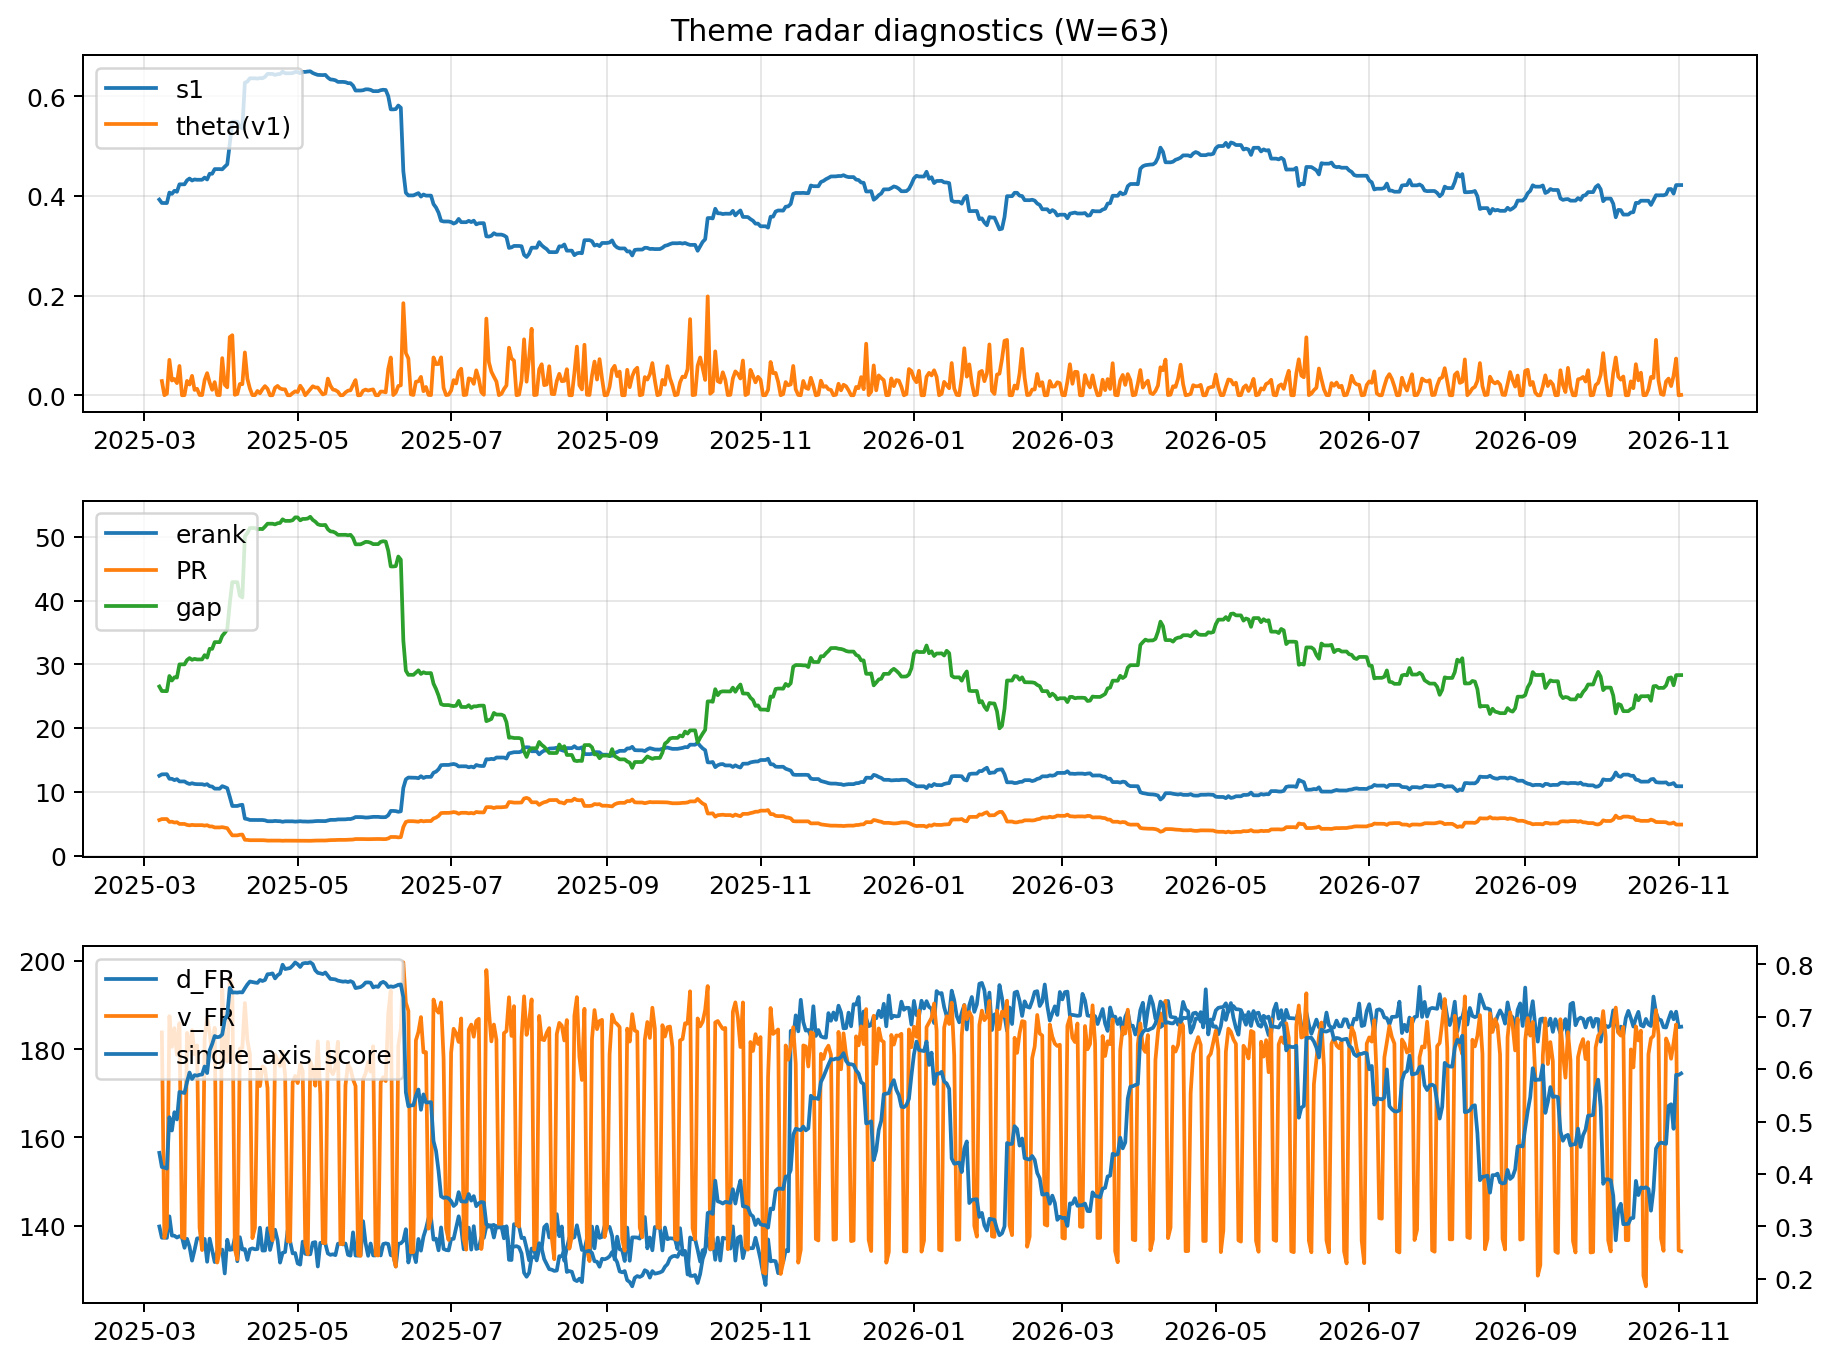
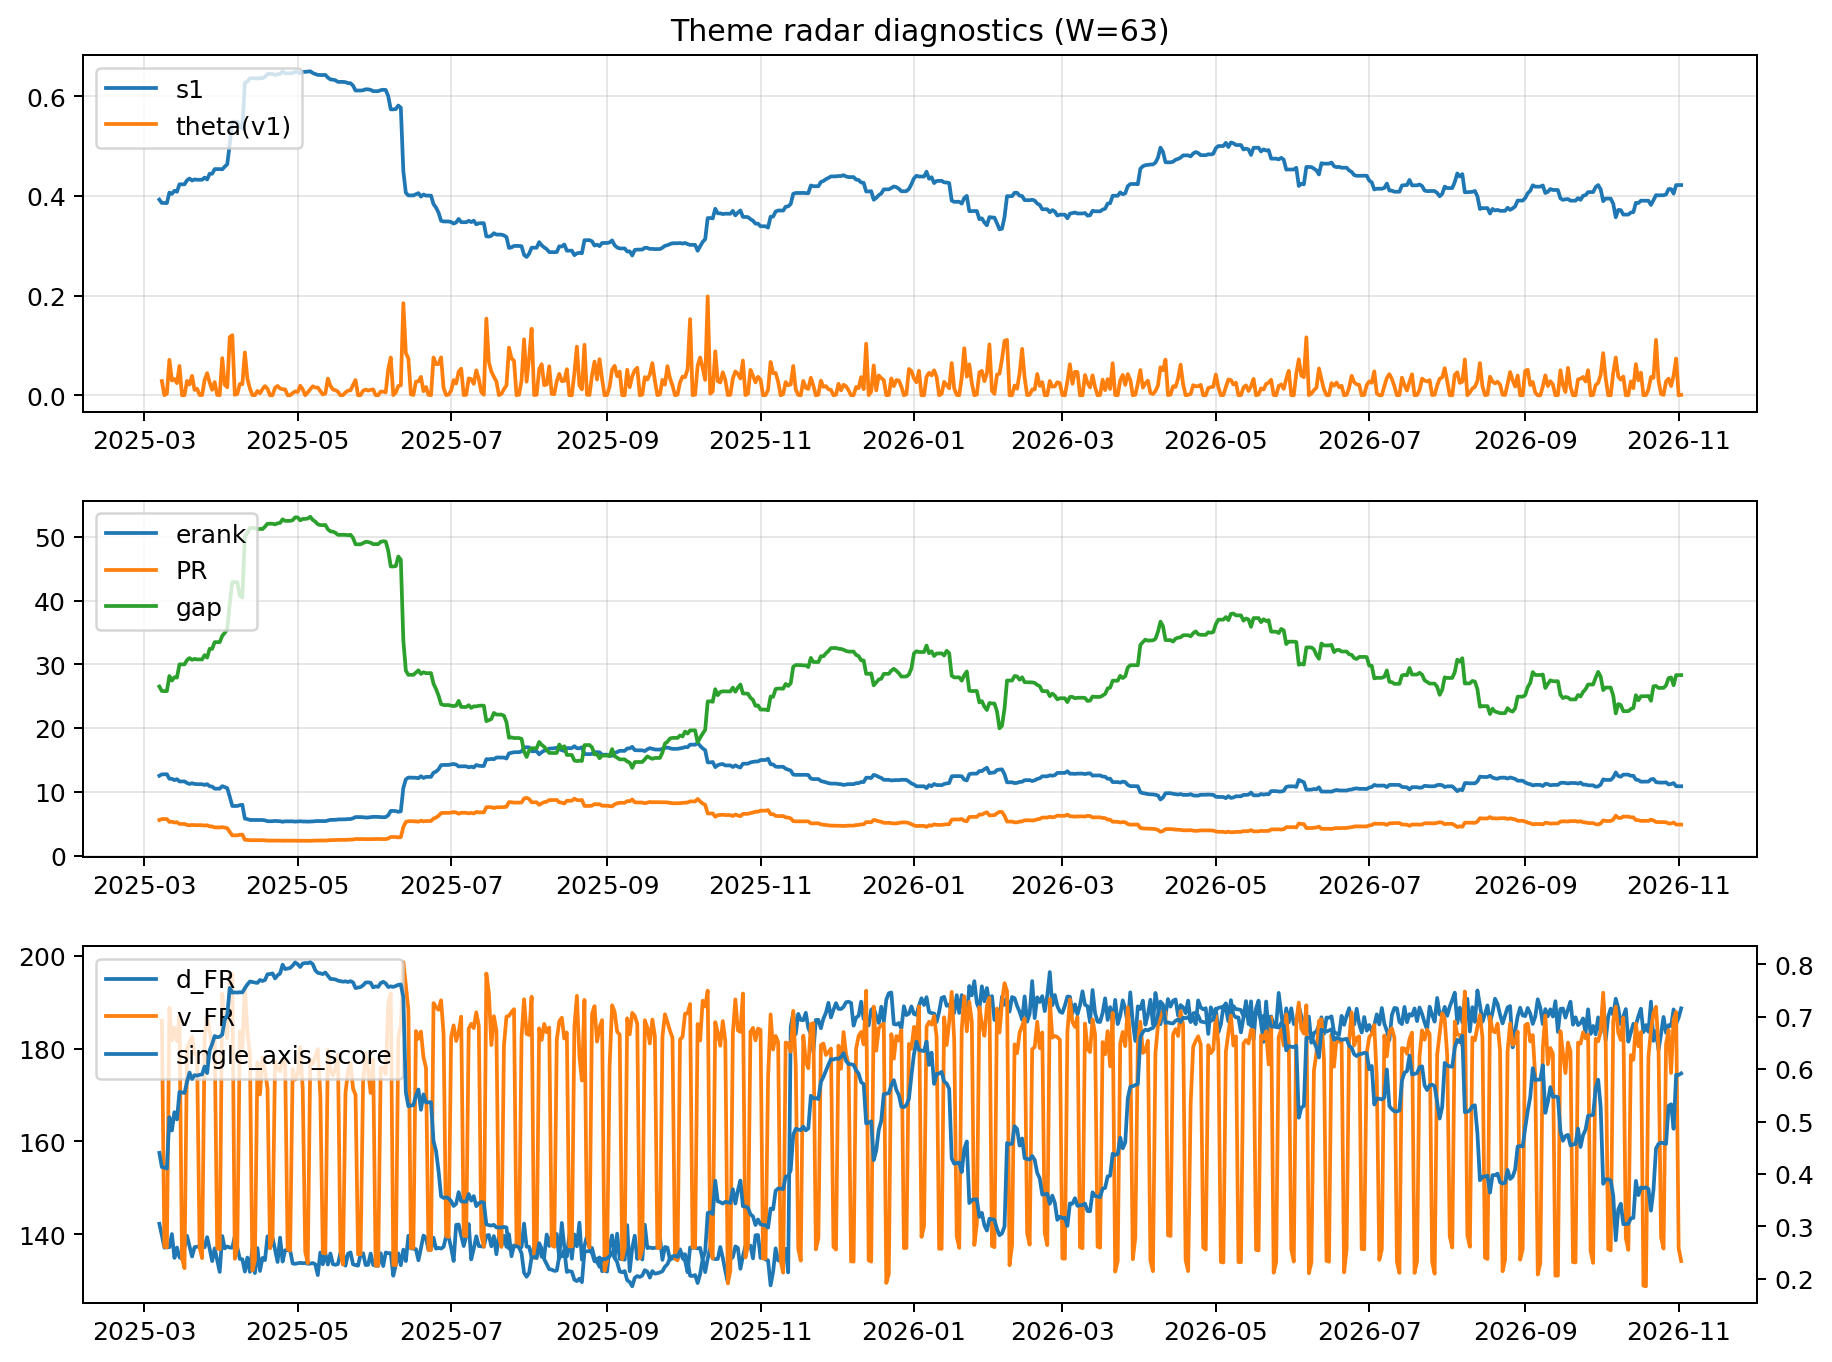
log: 2026-11-02 | sha256:2661de5c6bdb81bd99580f42bf3d1a2b291863502059f8a482d064c9c5fe5c1d

diff --git a/logs/2026-11-02.md b/logs/2026-11-02.md
@@ -3,43 +3,43 @@
 ![diagnostic W63](../assets/diagnostic/2026-11-02_W63.png)
 
 ## Leaders (v1) — W=63
-- **Nuclear_Uranium** (0.0796659410834322)
-- Semis (0.0714794117205216)
-- Space (0.0582056795337721)
+- **Nuclear_Uranium** (0.0796659408871317)
+- Semis (0.0714794135627239)
+- Space (0.0582056805934564)
 
 ## Challengers — W=63
-**v2:** Rates (0.148548835064062), Semis (0.0835764719079293), Credit (0.0591302166988504)
-**v3:** Software_Cloud (0.1139343943440232), Crypto (0.0825259535440402), Grid_Power (0.0814311950516685)
+**v2:** Rates (0.1485488546218238), Semis (0.0835764633896197), Credit (0.0591301691116762)
+**v3:** Software_Cloud (0.1139343913460282), Crypto (0.0825259488025602), Grid_Power (0.0814311969052434)
 
 ## Migration (20D slope) — W=63
 **Top risers:**
-- axis_Semis: 0.0006325911527146
-- axis_MegaCap_AI: 0.0004769353271778
-- axis_Crypto: 0.0003817051514576
-- axis_Sector_ConsStap: 0.0002803962930993
-- axis_Grid_Power: 0.0002731017930295
-- axis_Software_Cloud: 0.0002143041430672
-- axis_Metals: 0.0001546638831972
-- axis_Cyber: 0.0001543934587034
-- axis_Critical_Minerals: 0.0001455125461747
-- axis_Miners: 0.0001448269638683
+- axis_Semis: 0.0006325908946858
+- axis_MegaCap_AI: 0.0004769356561541
+- axis_Crypto: 0.0003817051764758
+- axis_Sector_ConsStap: 0.0002803961564806
+- axis_Grid_Power: 0.0002731014076425
+- axis_Software_Cloud: 0.0002143046374384
+- axis_Metals: 0.0001546639022805
+- axis_Cyber: 0.0001543937492739
+- axis_Critical_Minerals: 0.0001455125521379
+- axis_Miners: 0.000144826905288
 
 **Top fallers:**
-- axis_Equity_ExUS: -9.823134299791184e-05
-- axis_Drones_Autonomy: -0.0001050386658427
-- axis_Equity_US: -0.0001291136884596
-- axis_Clean_Broad: -0.0001536897347666
-- axis_Sector_Utilities: -0.0002029832853435
-- axis_Sector_Materials: -0.0002126166294487
-- axis_USD: -0.000276024563337
-- axis_Sector_RealEstate: -0.0003207843116917
-- axis_Credit: -0.0004062185021587
-- axis_Rates: -0.001621789737138
+- axis_Equity_ExUS: -9.823144841295618e-05
+- axis_Drones_Autonomy: -0.0001050386112575
+- axis_Equity_US: -0.0001291135847915
+- axis_Clean_Broad: -0.0001536897812109
+- axis_Sector_Utilities: -0.0002029833069156
+- axis_Sector_Materials: -0.00021261665824
+- axis_USD: -0.0002760245484476
+- axis_Sector_RealEstate: -0.0003207842736537
+- axis_Credit: -0.0004062213597757
+- axis_Rates: -0.0016217869259358
 
 ## Risk line (W=63)
-- s1: 0.4217454876954976
-- theta_v1: 0.0007511157895555
-- v_FR: 134.22692894120348
+- s1: 0.4217454857381163
+- theta_v1: 0.0007511157771394
+- v_FR: 134.18571658380947
 - single_axis_score: 0.5917491749174918
 
 ## Interpretation
@@ -51,4 +51,4 @@
 - Percentiles (W=63 history): vfr_pct=0.08, theta_pct=0.20, s1_pct=0.63, score_pct=0.65.
 
 ---
[2 lines of base64/hex data omitted]
